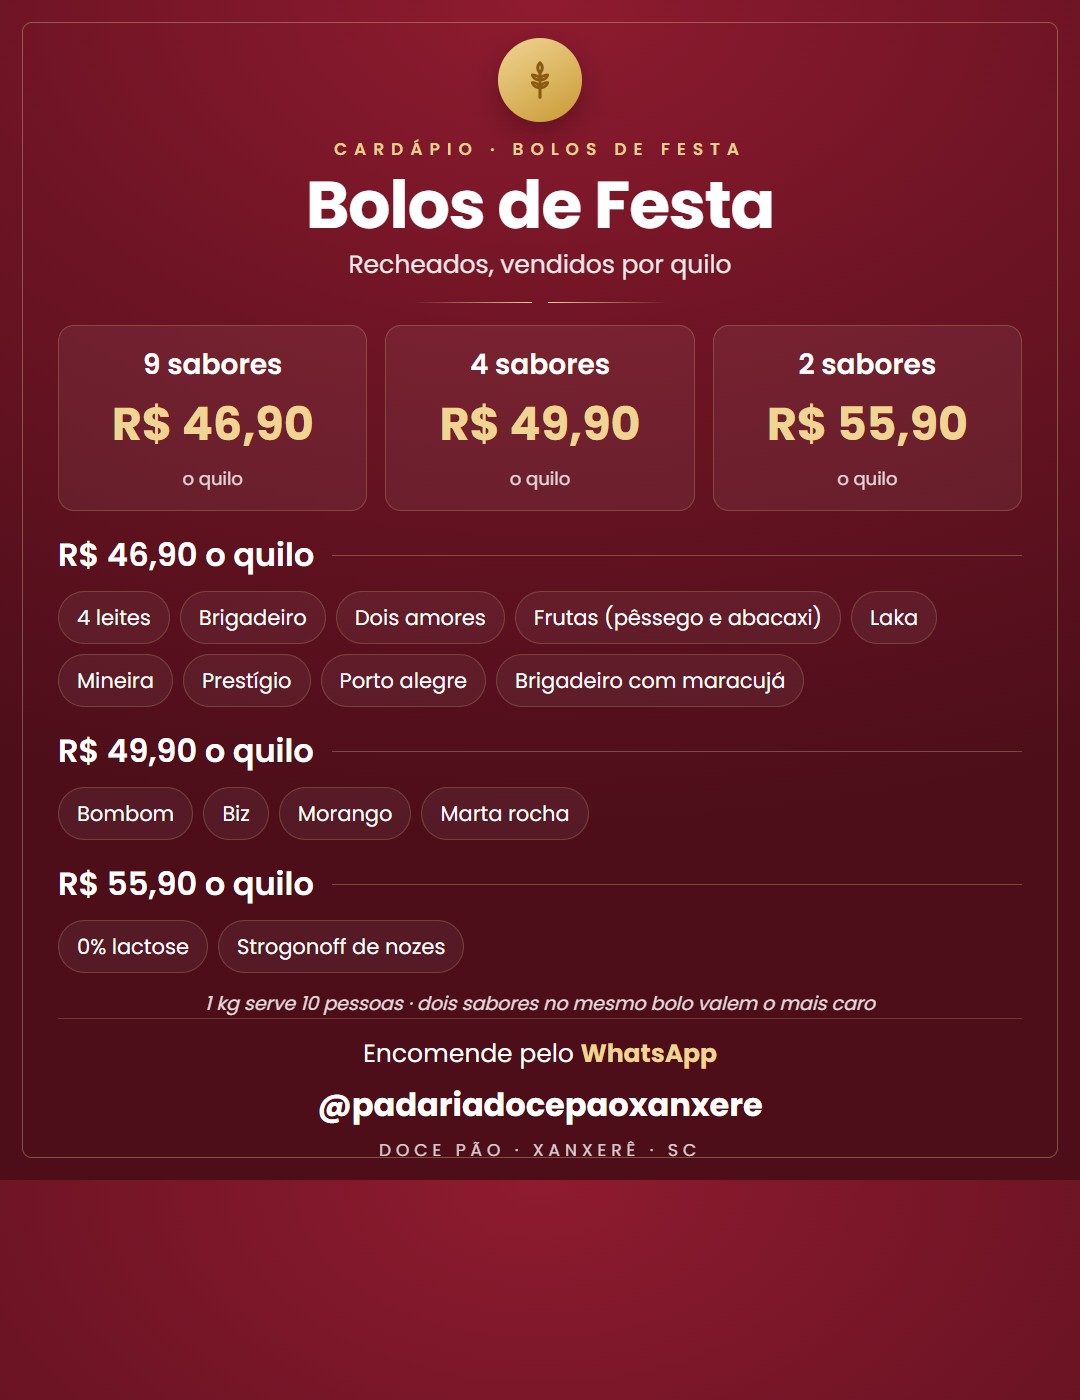
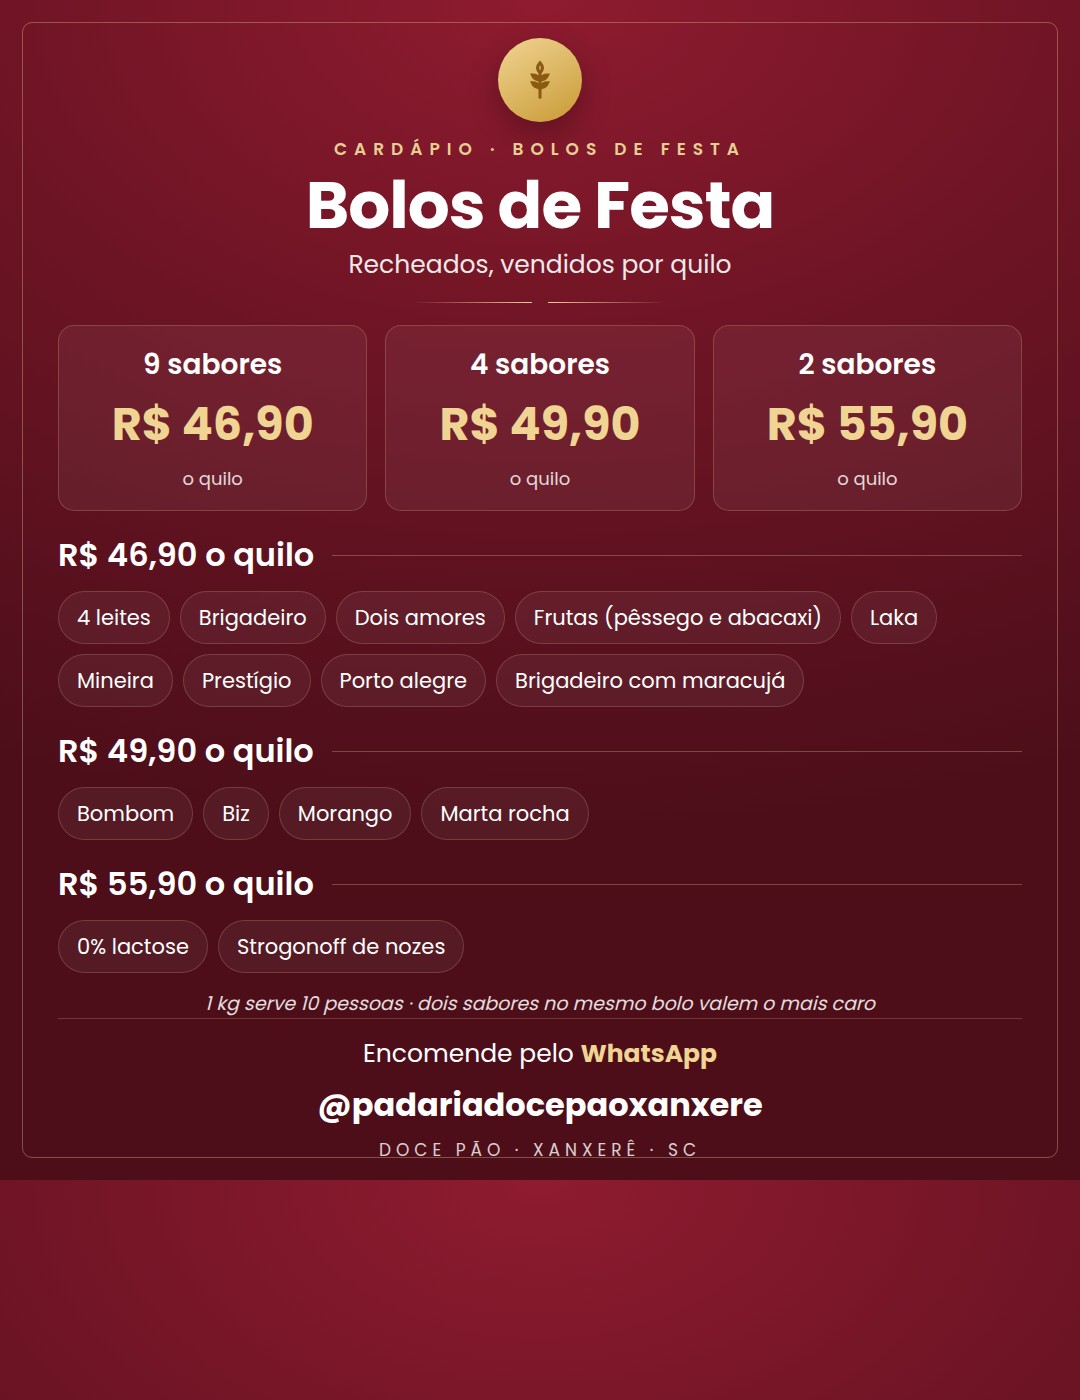
O painel mostra o recibo do banco, e o /testar mostra os botoes.
Sem tique azul: entregue e lida so aparecem se o WhatsApp gravou. A tela de
teste manda o toque com botaoId, igual ao celular. A pergunta de pizza fala a
faixa que costuma sair mesmo quando ele nao disse redonda. As oito pecas do
cardapio nasceram de novo neste Linux.

diff --git a/app/(painel)/testar/page.tsx b/app/(painel)/testar/page.tsx
@@ -11,12 +11,16 @@ import { useEffect, useRef, useState } from "react";
 import { Bot, SendHorizontal, Trash2, Info, User, Paperclip, X } from "lucide-react";
 
 type Msg = { de: "cliente" | "ia"; texto: string; imagem?: string };
+type BotaoDaFala = { id: string; titulo: string };
 
 export default function TestarIA() {
   const [mensagens, setMensagens] = useState<Msg[]>([]);
   const [texto, setTexto] = useState("");
   const [digitando, setDigitando] = useState(false);
   const [erro, setErro] = useState<string | null>(null);
+  // Os mesmos botoes que o WhatsApp mostraria. Sem eles a tela de teste nao
+  // exercita metade da conversa (pagamento, fechar, base da festa).
+  const [botoes, setBotoes] = useState<BotaoDaFala[]>([]);
   // Foto de referência anexada à PRÓXIMA mensagem (data URL pra preview + envio).
   const [anexo, setAnexo] = useState<{ dataUrl: string; mime: string } | null>(null);
   // LIMPAR A TELA TEM QUE LIMPAR O BANCO TAMBEM.
@@ -67,16 +71,17 @@ export default function TestarIA() {
     usarArquivo(e.dataTransfer?.files?.[0]);
   }
 
-  async function enviar() {
-    const t = texto.trim();
-    if ((!t && !anexo) || digitando) return;
+  async function enviar(toque?: BotaoDaFala) {
+    const t = toque ? String(toque.titulo || toque.id) : texto.trim();
+    if ((!t && !anexo && !toque) || digitando) return;
     setErro(null);
 
-    // Conversa completa (incluindo a nova mensagem) vai pro cérebro real — igual
-    // ao webhook, a última mensagem é a pergunta nova do cliente.
+    // Conversa completa (incluindo a nova mensagem) vai pro cerebro real, igual
+    // ao webhook: a ultima mensagem e a pergunta nova do cliente.
     const conversa: Msg[] = [...mensagens, { de: "cliente", texto: t, imagem: anexo?.dataUrl }];
     setMensagens(conversa);
     setTexto("");
+    setBotoes([]);
     const anexoEnviar = anexo;
     setAnexo(null);
     setDigitando(true);
@@ -93,6 +98,7 @@ export default function TestarIA() {
           imagem: anexoEnviar?.dataUrl,
           imagemMime: anexoEnviar?.mime,
           reiniciar: reiniciarAgora,
+          botaoId: toque ? toque.id : null,
         }),
       });
       const dados = await r.json().catch(() => ({}));
@@ -109,6 +115,12 @@ export default function TestarIA() {
           imagem: url,
         }));
         setMensagens((m) => [...m, { de: "ia", texto: dados.resposta }, ...extras]);
+        const daFala = Array.isArray(dados.botoes) ? dados.botoes : [];
+        setBotoes(
+          daFala
+            .filter((b: BotaoDaFala) => b && typeof b.id === "string" && typeof b.titulo === "string")
+            .slice(0, 3),
+        );
         if (dados.aviso) setErro(dados.aviso);
       } else {
         setErro("A IA não devolveu resposta. Tente de novo.");
@@ -125,6 +137,7 @@ export default function TestarIA() {
     setErro(null);
     setTexto("");
     setAnexo(null);
+    setBotoes([]);
     // E o banco tambem, na proxima mensagem: sem isto o pedido da conversa
     // anterior continua montado e a IA responde em cima dele.
     setPrecisaReiniciar(true);
@@ -156,8 +169,9 @@ export default function TestarIA() {
       >
         <Info size={15} className="shrink-0 mt-0.5" style={{ color: "var(--brand-cobre-l)" }} />
         <div className="text-cream/80">
-          Este chat usa a mesma IA que atende no WhatsApp. Se ela fechar o pedido, ele cai na Fila de
-          Aprovação, do mesmo jeito que aconteceria com um cliente de verdade.
+          Este chat usa a mesma IA que atende no WhatsApp. Se o pedido fechar (pelo botao de
+          confirmar, nunca sozinho), ele cai na Fila de Aprovacao, do mesmo jeito que aconteceria
+          com um cliente de verdade.
         </div>
       </div>
 
@@ -177,7 +191,7 @@ export default function TestarIA() {
                 </div>
                 <p className="text-sm text-cream/60 mt-1 max-w-sm mx-auto">
                   Escreva uma mensagem abaixo (ex: &quot;quero 100 salgados pra sábado&quot;) e veja
-                  se a IA atende e fecha o pedido sozinha.
+                  se a IA atende. Fechar o pedido e o botao da equipe no painel.
                 </p>
               </div>
             </div>
@@ -252,7 +266,22 @@ export default function TestarIA() {
           )}
         </div>
 
-        {/* erro amigável */}
+        {botoes.length > 0 && !digitando && (
+          <div className="px-4 pb-2 flex flex-wrap gap-2 justify-center">
+            {botoes.map((b) => (
+              <button
+                key={b.id}
+                type="button"
+                onClick={() => enviar(b)}
+                className="press rounded-full px-3.5 py-1.5 text-[13px] font-medium text-[#3d1219]"
+                style={{ background: "linear-gradient(135deg,#96741a,#e7cf94)" }}
+              >
+                {b.titulo}
+              </button>
+            ))}
+          </div>
+        )}
+
         {erro && (
           <div
             className="mx-4 mb-2 rounded-[12px] px-4 py-2.5 text-[12.5px] leading-relaxed"

diff --git a/components/Atendimentos.tsx b/components/Atendimentos.tsx
@@ -21,7 +21,8 @@ import { formatarTelefoneBR, linkWhatsapp, brl } from "@/lib/tipos";
 import { avisoDeSessao, buscarDoPainel, AVISO_SESSAO_EXPIRADA } from "@/lib/buscar-do-painel";
 import CampoTelefone, { telefoneCompleto } from "@/components/CampoTelefone";
 import AudioBolha from "@/components/AudioBolha";
-import { Check,
+import { rotuloDoRecibo } from "@/lib/whatsapp/recibo";
+import {
   Search, Plus, Paperclip, SendHorizontal, ArrowLeft, Bot, X,
   MessageSquare, Info, FileText, Download, CheckCheck, AlertCircle,
   Clock, ShieldAlert, Hand, ShoppingBag, Zap, TriangleAlert,
@@ -179,22 +180,19 @@ function Balao({ m, primeiro, onImagem }: { m: Pend; primeiro: boolean; onImagem
   const rotulosAuto = [m.midiaNome ?? "", "foto", "áudio", "audio"].map((s) => s.toLowerCase());
   if (isMidia && legenda && rotulosAuto.includes(legenda.toLowerCase())) legenda = "";
 
+  const recibo = !isCliente ? rotuloDoRecibo(m) : null;
   const HoraSelo = () => (
     <span className={"text-[10px] inline-flex items-center gap-1 align-bottom " + (isCliente ? "text-black/35" : "text-black/45")}>
       {m.hora}
       {!isCliente && m.de === "equipe" && m.status === "enviando" && <Clock size={11} />}
-      {!isCliente && m.de === "equipe" && m.status === "enviado" && <CheckCheck size={12} />}
       {!isCliente && m.de === "equipe" && m.status === "erro" && <AlertCircle size={12} className="text-red-900" />}
-      {/* O que o WhatsApp respondeu depois do envio. Falha e o unico caso que
-          pede acao: a mensagem nao chegou no cliente. */}
-      {!isCliente && m.falhaEnvio && (
-        <span className="inline-flex items-center gap-1 text-red-900" title={m.falhaEnvio}>
-          <AlertCircle size={12} /> não chegou
+      {recibo === "nao chegou" && (
+        <span className="inline-flex items-center gap-1 text-red-900" title={m.falhaEnvio || undefined}>
+          <AlertCircle size={12} /> nao chegou
         </span>
       )}
-      {!isCliente && !m.falhaEnvio && m.lidaWpp && <CheckCheck size={12} className="text-sky-800" />}
-      {!isCliente && !m.falhaEnvio && !m.lidaWpp && m.entregue && <CheckCheck size={12} />}
-      {!isCliente && !m.falhaEnvio && !m.lidaWpp && !m.entregue && m.de === "ia" && <Check size={12} />}
+      {recibo === "lida" && <span>lida</span>}
+      {recibo === "entregue" && <span>entregue</span>}
     </span>
   );
 
@@ -224,10 +222,7 @@ function Balao({ m, primeiro, onImagem }: { m: Pend; primeiro: boolean; onImagem
                   className="absolute bottom-1.5 right-1.5 text-[10px] text-white/90 px-1.5 py-0.5 rounded-full inline-flex items-center gap-1"
                   style={{ background: "rgba(0,0,0,0.45)", backdropFilter: "blur(2px)" }}
                 >
-                  {m.hora}
-                  {!isCliente && m.de === "equipe" && m.status === "enviando" && <Clock size={10} />}
-                  {!isCliente && m.de === "equipe" && m.status === "enviado" && <CheckCheck size={11} />}
-                  {!isCliente && m.de === "equipe" && m.status === "erro" && <AlertCircle size={11} />}
+                  <HoraSelo />
                 </span>
               )}
             </div>

diff --git a/lib/ia/fluxo/informacao.ts b/lib/ia/fluxo/informacao.ts
@@ -270,8 +270,15 @@ function fraseDaLista(
   let texto = nome.charAt(0).toUpperCase() + nome.slice(1) + " sai " + partes.join(", e ") + ".";
   // A REDONDA E POR PESO, E O CLIENTE NAO TEM BALANCA. O catalogo guarda a faixa
   // que costuma sair; sem isto ele ouve so o quilo e nao sabe se cabe no bolso.
-  if (lista.length === 1 && lista[0].valorTipico) {
-    const [a, b] = lista[0].valorTipico;
+  // Vale tambem quando a familia tem mais de um produto (forma + redonda): a
+  // faixa do que e por peso entra na mesma frase, sem pedir o nome exato.
+  const jaDisse = new Set<string>();
+  for (const x of lista) {
+    if (!x.valorTipico) continue;
+    const [a, b] = x.valorTipico;
+    const chave = a + "-" + b;
+    if (jaDisse.has(chave)) continue;
+    jaDisse.add(chave);
     texto += " Costuma sair entre " + brl(a) + " e " + brl(b) + ".";
   }
   return texto;

diff --git a/lib/whatsapp/recibo.ts b/lib/whatsapp/recibo.ts
@@ -1,0 +1,18 @@
+// RECIBO HONESTO: so o que o banco gravou.
+//
+// A Meta manda entregue e lida. O painel nao inventa tique azul: se o UPDATE
+// nao casou o wamid, os campos ficam vazios e a tela nao finge que chegou.
+
+export type ReciboDaMensagem = {
+  falhaEnvio?: string | null;
+  lidaWpp?: boolean | null;
+  entregue?: boolean | null;
+};
+
+/** Palavra que a tela pode mostrar. Null = ainda nao ha recibo, e nao se inventa. */
+export function rotuloDoRecibo(m: ReciboDaMensagem): "nao chegou" | "lida" | "entregue" | null {
+  if (m.falhaEnvio) return "nao chegou";
+  if (m.lidaWpp) return "lida";
+  if (m.entregue) return "entregue";
+  return null;
+}

diff --git a/O-QUE-FALTA.md b/O-QUE-FALTA.md
@@ -390,9 +390,9 @@ Prova: `testes/a-frase-anota-mesmo-quando-o-modelo-hedgeia.cjs`.
 ### 7. Regerar as oito pecas de cardapio
 
 O HTML nasce de `scripts/gerar-cardapio.mjs` em `.cardapios/` (gitignored).
-Rodar o script de novo quando o catalogo mudar. Virar JPG e com Chrome da
-casa: captura full size em `public/cardapios/<nome>.jpg`. Sem Chrome neste
-ambiente, as imagens publicadas ficam com a versao que ja estava no repo.
+`scripts/gerar-cardapio-imagens.mjs` acha o Chrome do Linux (`/usr/bin`) ou o
+do Playwright no Windows. Conferir na padaria se a peca que o WhatsApp manda e
+esta captura.
 
 Dois agrupamentos que o dono mandou separar:
 
@@ -405,18 +405,19 @@ Dois agrupamentos que o dono mandou separar:
 
 ### 8. Recibo de entrega e leitura
 
-O evento de status agora e lido mesmo quando vem no mesmo pacote da mensagem.
-O UPDATE loga quando o `wamid` nao casa. Recibo **nao se inventa**. Se ainda
-nao gravar numa conversa real, o log diz se o evento chegou e o id nao bateu.
+O evento de status e lido mesmo quando vem no mesmo pacote da mensagem.
+O UPDATE loga quando o `wamid` nao casa. Recibo **nao se inventa**.
 
 ### 9. Marcar lida e "digitando" da 400 (#131009)
 
 E recusa da Meta neste `message_id` (id de teste, mensagem ja marcada, ou
 recurso nao liberado na conta). O log nomeia o 131009. Nao invento tique azul.
 
-### 10. Nenhuma tela mostra recibo
+### 10. A tela do WhatsApp mostra o recibo do banco
 
-Mesmo quando gravar, nao ha onde ver. Tela e trabalho de UI, nao desta rodada.
+Balão da equipe/IA escreve `entregue` ou `lida` a partir de `entregue_em` /
+`lida_em`. Sem campo, nao escreve. Sem tique azul. Prova: conversa real ainda e
+dele (chave SSH desta maquina nao existe).
 
 ### 11. Erro engolido em silencio — FEITO no caminho do WhatsApp
 
@@ -448,8 +449,8 @@ Aqui não dá para responder pelo estado, e é honesto dizer que não sei.
 - o painel da dona fora do que o `qa-painel` cobre
 - a ponte da impressora
 - vários clientes conversando ao mesmo tempo (`qa-concorrencia`)
-- **a tela `/testar` depois da mudança de cérebro.** Ela passou a chamar o
-  fluxo em 26/08/2026 e ainda não foi aberta no navegador desde então
+- **a tela `/testar` no navegador logado.** O codigo mostra os botoes da fala
+  e manda `botaoId`. Abrir a pagina em producao ainda e dele.
 
 ---
 
